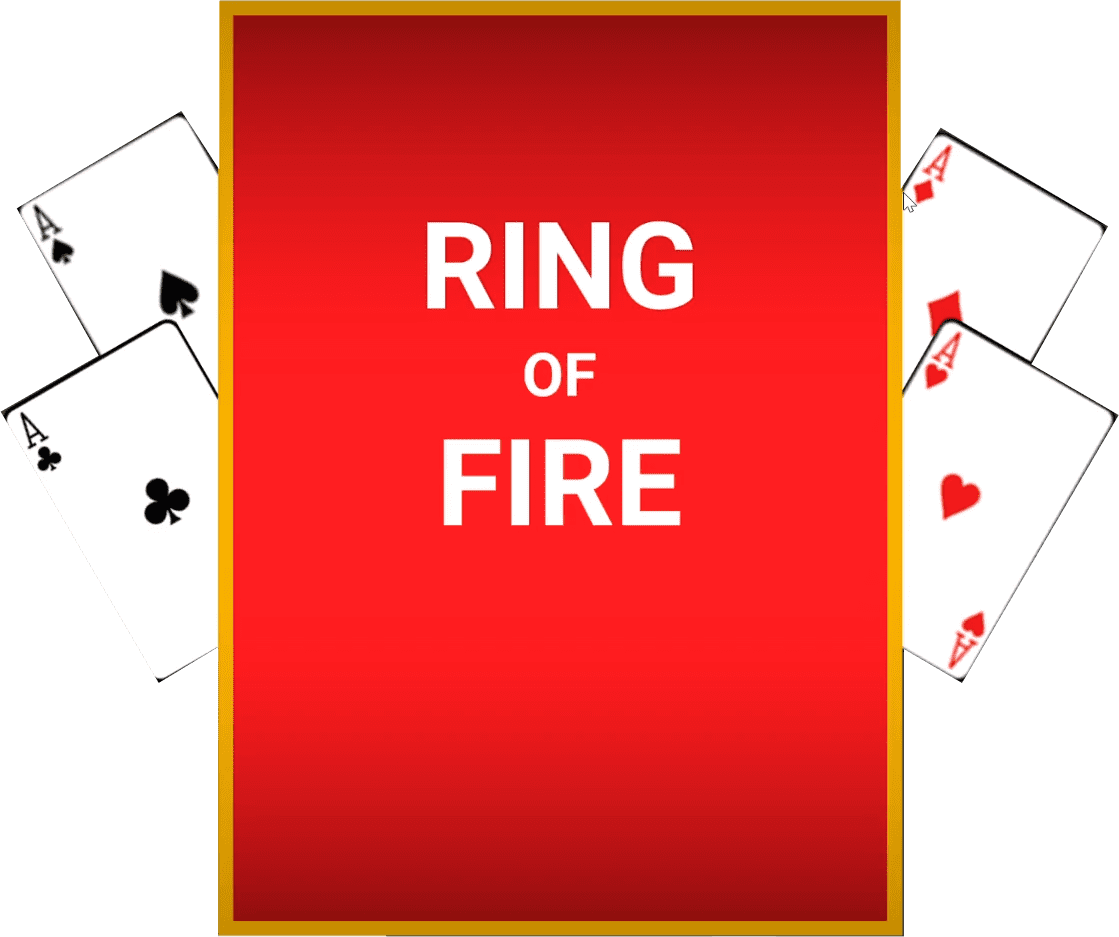
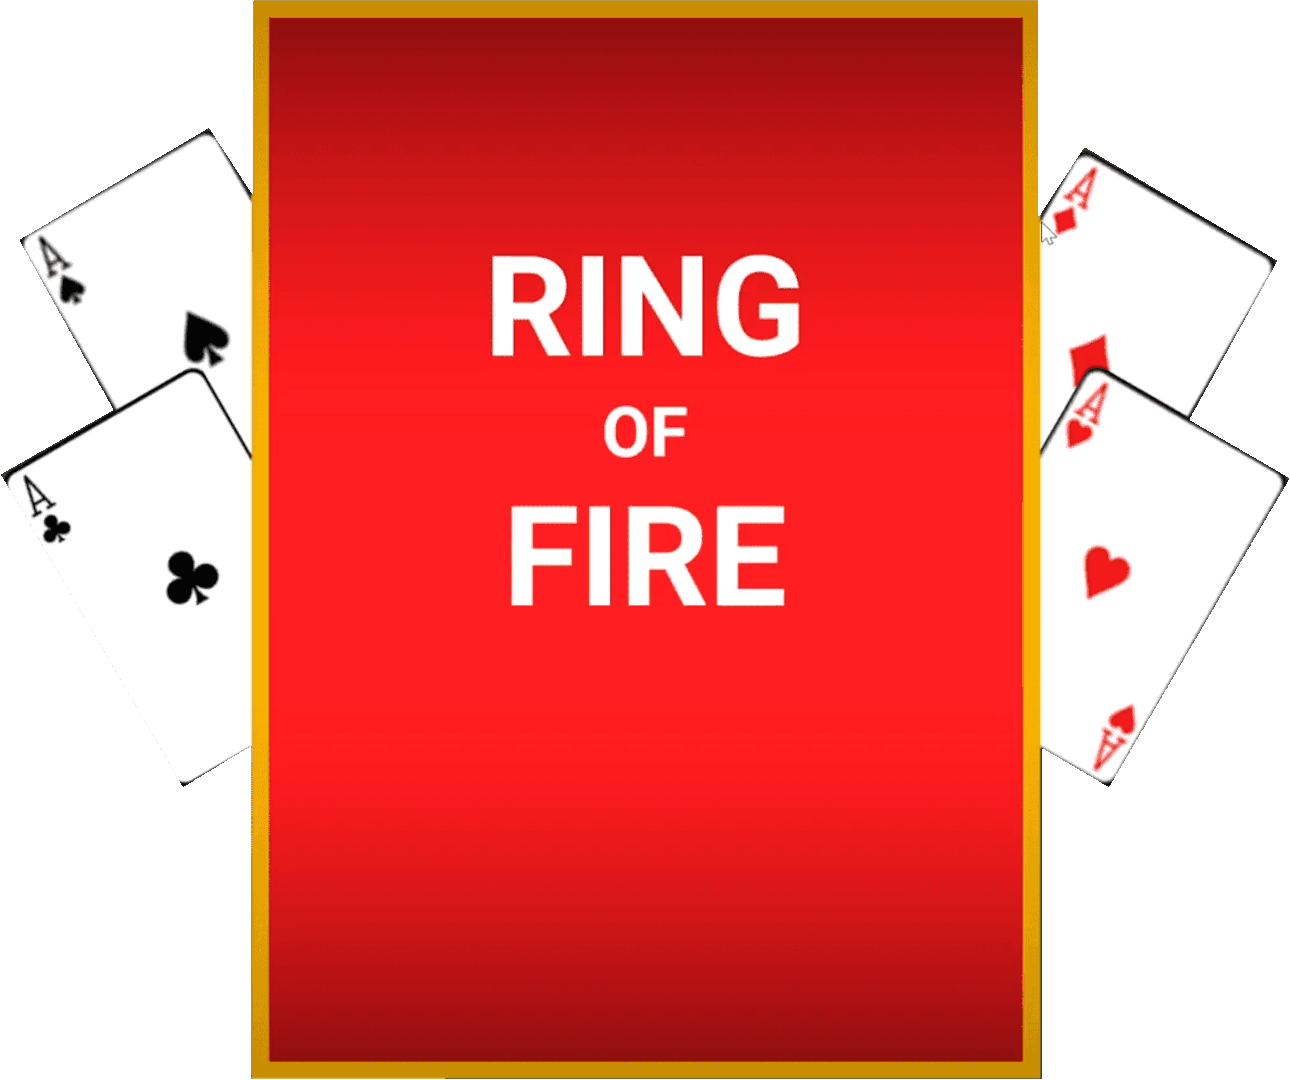
game component and router from startscreen to game

Changed region(s): [[0.3646, 0.9904, 0.79, 1.0], [0.1823, 0.3714, 0.2127, 0.4333]]

diff --git a/src/app/game/game.component.spec.ts b/src/app/game/game.component.spec.ts
@@ -1,0 +1,23 @@
+import { ComponentFixture, TestBed } from '@angular/core/testing';
+
+import { GameComponent } from './game.component';
+
+describe('GameComponent', () => {
+  let component: GameComponent;
+  let fixture: ComponentFixture<GameComponent>;
+
+  beforeEach(async () => {
+    await TestBed.configureTestingModule({
+      declarations: [ GameComponent ]
+    })
+    .compileComponents();
+
+    fixture = TestBed.createComponent(GameComponent);
+    component = fixture.componentInstance;
+    fixture.detectChanges();
+  });
+
+  it('should create', () => {
+    expect(component).toBeTruthy();
+  });
+});

diff --git a/src/app/app.module.ts b/src/app/app.module.ts
@@ -4,11 +4,13 @@ import { BrowserModule } from '@angular/platform-browser';
 import { AppRoutingModule } from './app-routing.module';
 import { AppComponent } from './app.component';
 import { StartScreenComponent } from './start-screen/start-screen.component';
+import { GameComponent } from './game/game.component';
 
 @NgModule({
   declarations: [
     AppComponent,
-    StartScreenComponent
+    StartScreenComponent,
+    GameComponent
   ],
   imports: [
     BrowserModule,

diff --git a/src/app/start-screen/start-screen.component.ts b/src/app/start-screen/start-screen.component.ts
@@ -1,4 +1,5 @@
 import { Component, OnInit } from '@angular/core';
+import { Router } from '@angular/router';
 
 @Component({
   selector: 'app-start-screen',
@@ -7,9 +8,13 @@ import { Component, OnInit } from '@angular/core';
 })
 export class StartScreenComponent implements OnInit {
 
-  constructor() { }
+  constructor(private router: Router) { }
 
   ngOnInit(): void {
+  }
+
+  newGame() {
+    this.router.navigateByUrl('/game');
   }
 
 }

diff --git a/src/app/app-routing.module.ts b/src/app/app-routing.module.ts
@@ -1,9 +1,11 @@
 import { NgModule } from '@angular/core';
 import { RouterModule, Routes } from '@angular/router';
+import { GameComponent } from './game/game.component';
 import { StartScreenComponent } from './start-screen/start-screen.component';
 
 const routes: Routes = [
-  { path: '', component: StartScreenComponent }
+  { path: '', component: StartScreenComponent },
+  { path: 'game', component: GameComponent }
 ];
 
 @NgModule({

diff --git a/src/app/start-screen/start-screen.component.scss b/src/app/start-screen/start-screen.component.scss
@@ -8,6 +8,24 @@
     align-items: center;
 
     img {
-        width: 100vh;
+        height: 100vh;
+    }
+}
+
+.start-label-box {
+    position: absolute;
+    left: 0;
+    right: 0;
+    bottom: 50px;
+    display: flex;
+    justify-content: center;
+
+    img {
+        width: 40vw;
+        height: auto;
+    }
+
+    &:hover {
+        filter: brightness(1.6);
     }
 }

diff --git a/src/app/game/game.component.ts b/src/app/game/game.component.ts
@@ -1,0 +1,15 @@
+import { Component, OnInit } from '@angular/core';
+
+@Component({
+  selector: 'app-game',
+  templateUrl: './game.component.html',
+  styleUrls: ['./game.component.scss']
+})
+export class GameComponent implements OnInit {
+
+  constructor() { }
+
+  ngOnInit(): void {
+  }
+
+}

diff --git a/src/app/start-screen/start-screen.component.html b/src/app/start-screen/start-screen.component.html
@@ -1,3 +1,7 @@
 <div class="start-screen">
     <img src="assets/img/startbox.png">
+
+    <div class="start-label-box">
+        <img (click)="newGame()" src="assets/img/startlabel.png">
+    </div>
 </div>

diff --git a/src/app/game/game.component.html b/src/app/game/game.component.html
@@ -1,0 +1,1 @@
+<p>game works!</p>
